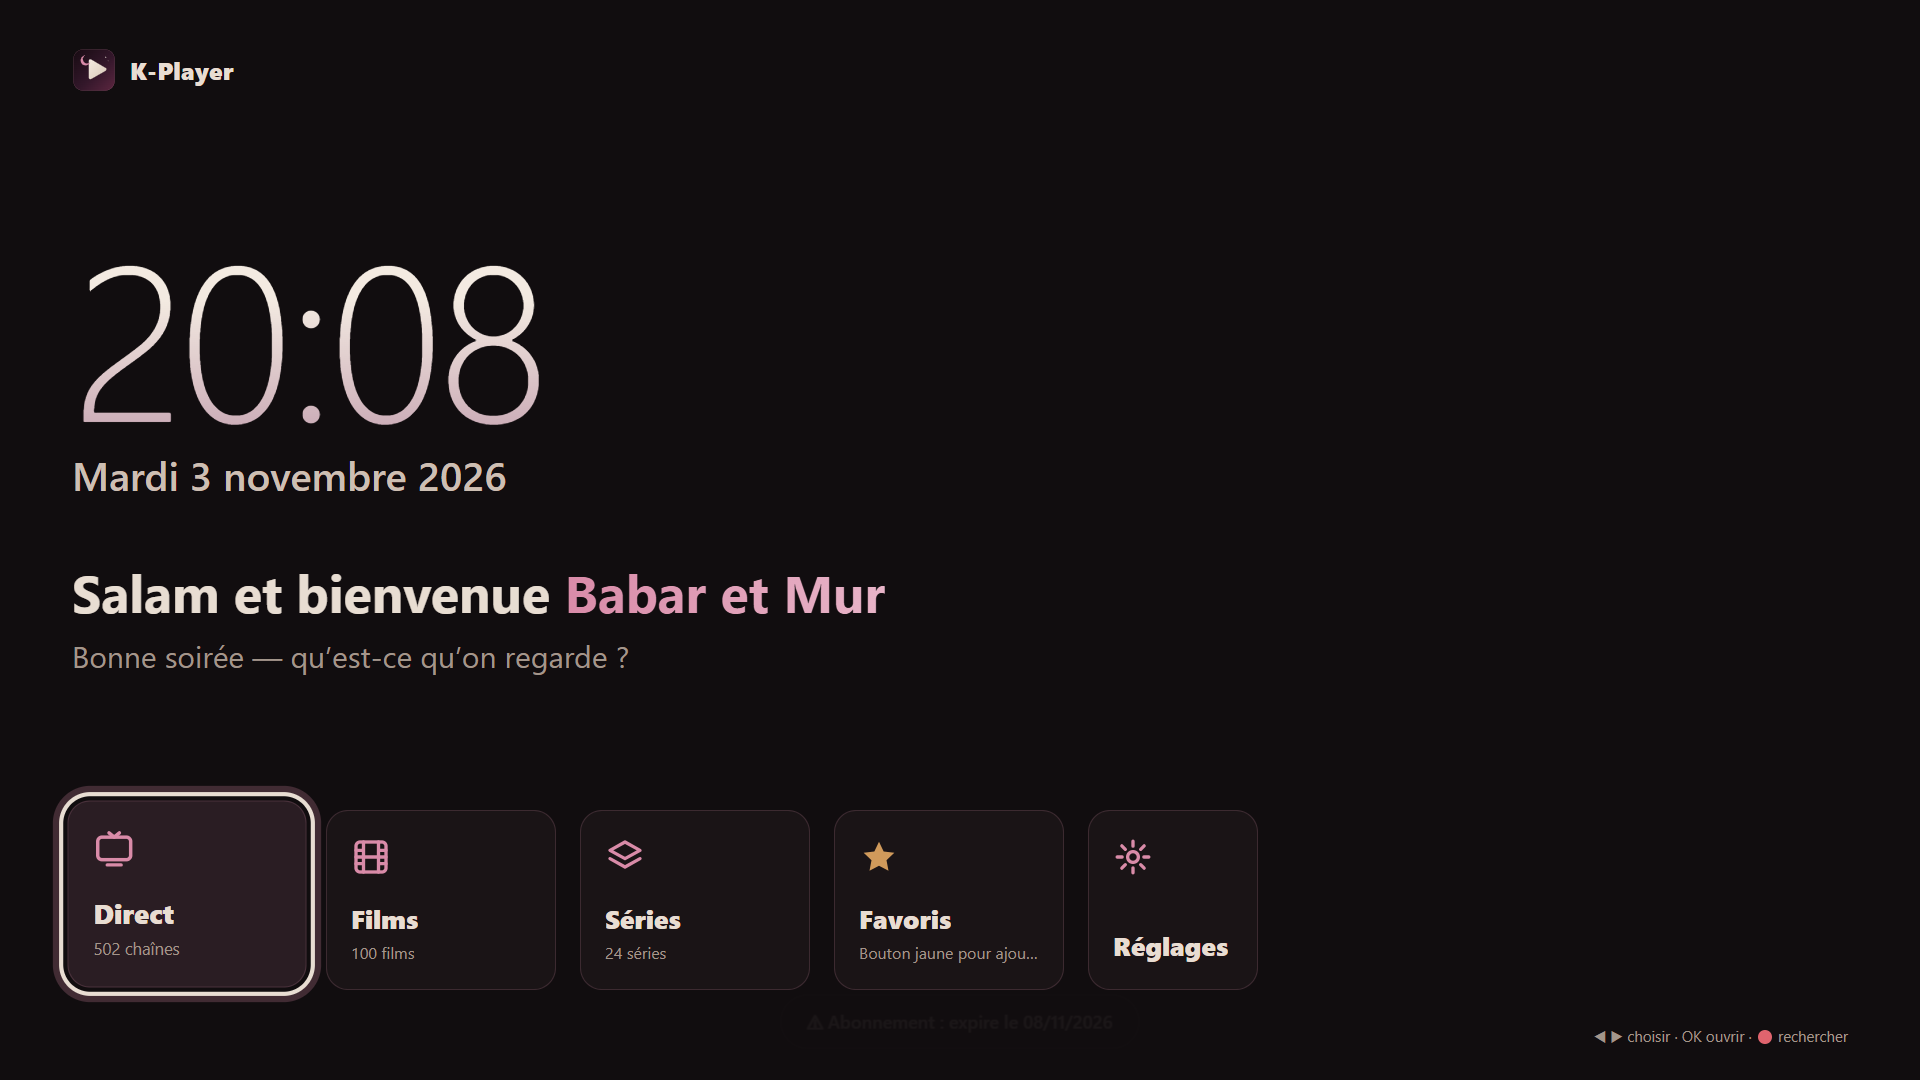
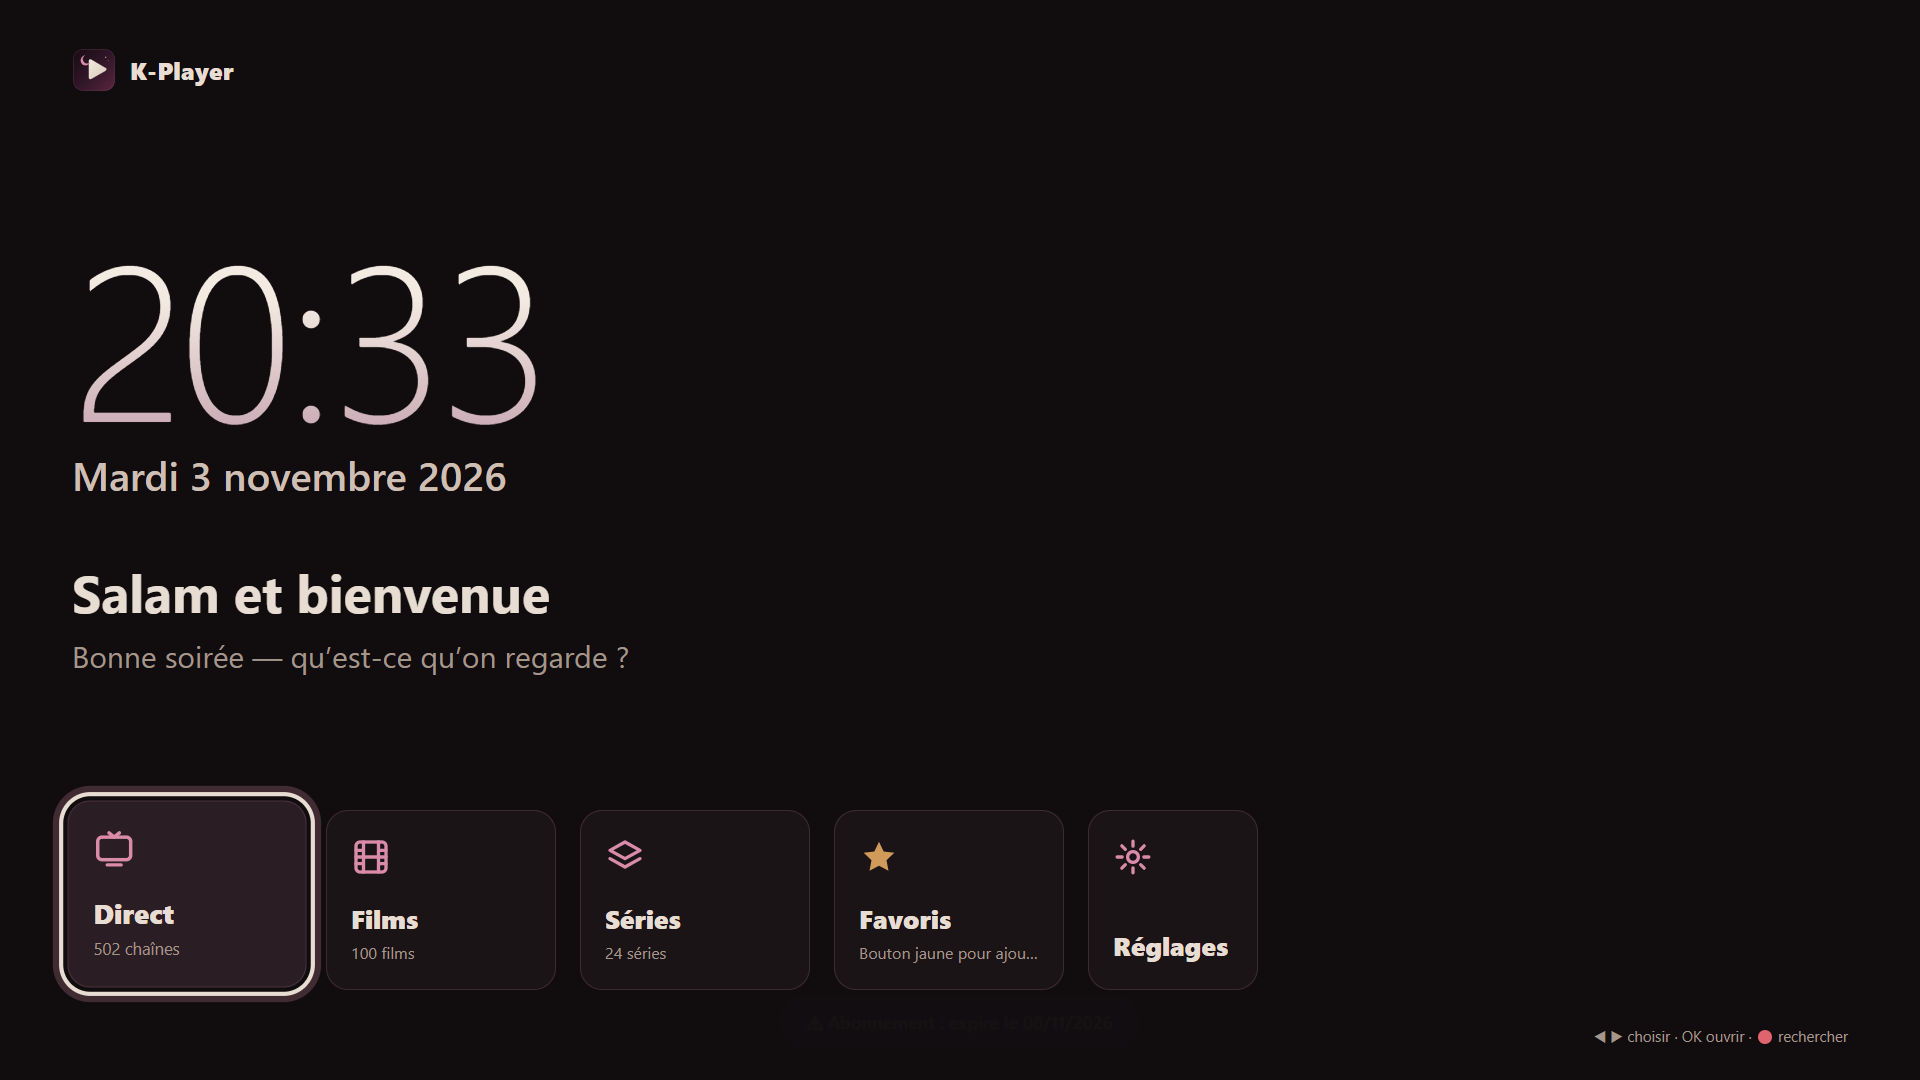
README : version Android TV / Google TV, accueil mis à jour

Changed region(s): [[0.1562, 0.2444, 0.2812, 0.3972], [0.2812, 0.5194, 0.4688, 0.5806]]

diff --git a/README.md b/README.md
@@ -5,12 +5,16 @@
 <h1 align="center">K-Player</h1>
 
 <p align="center">
-  Lecteur IPTV (Xtream Codes) pour TV <b>LG webOS</b>, en thème « Nuit » et pensé pour la télécommande.
+  Lecteur IPTV (Xtream Codes) pour TV <b>LG webOS</b> et <b>Android TV / Google TV</b>, en thème « Nuit » et pensé pour la télécommande.
 </p>
 
 <p align="center">
   <a href="https://github.com/Khenissi-Mohamed/Kplayer/releases/latest/download/K-Player.ipk">
-    <img src="https://img.shields.io/badge/T%C3%A9l%C3%A9charger-K--Player.ipk-D98BA8?style=for-the-badge&labelColor=33172A" alt="Télécharger K-Player" />
+    <img src="https://img.shields.io/badge/LG%20webOS-K--Player.ipk-D98BA8?style=for-the-badge&labelColor=33172A" alt="Télécharger pour LG webOS" />
+  </a>
+  &nbsp;
+  <a href="https://github.com/Khenissi-Mohamed/Kplayer/releases/latest/download/K-Player.apk">
+    <img src="https://img.shields.io/badge/Android%20TV-K--Player.apk-D98BA8?style=for-the-badge&labelColor=33172A" alt="Télécharger pour Android TV" />
   </a>
 </p>
 
@@ -20,11 +24,14 @@
 
 ## ⬇ Télécharger
 
-👉 **[K-Player.ipk (dernière version)](https://github.com/Khenissi-Mohamed/Kplayer/releases/latest/download/K-Player.ipk)**
+| TV | Fichier |
+|---|---|
+| 📺 **LG webOS** | 👉 **[K-Player.ipk](https://github.com/Khenissi-Mohamed/Kplayer/releases/latest/download/K-Player.ipk)** |
+| 🤖 **Android TV / Google TV** (Chromecast, Shield, Fire TV, box Android…) | 👉 **[K-Player.apk](https://github.com/Khenissi-Mohamed/Kplayer/releases/latest/download/K-Player.apk)** |
 
 Toutes les versions sont sur la page [Releases](https://github.com/Khenissi-Mohamed/Kplayer/releases).
 
-## 📺 Installer sur la TV
+## 📺 Installer sur une TV LG (webOS)
 
 1. Sur la TV, active le **mode développeur** : installe l'app *Developer Mode* depuis le LG Content Store et connecte-toi avec un compte LG développeur (gratuit).
 2. Sur le PC, installe **[webOS Dev Manager](https://github.com/webosbrew/dev-manager-desktop/releases)** et ajoute ta TV.
@@ -32,6 +39,15 @@ Toutes les versions sont sur la page [Releases](https://github.com/Khenissi-Moha
 4. Lance **K-Player** depuis le menu de la TV.
 
 > Le mode développeur doit être renouvelé régulièrement depuis l'app *Developer Mode*, sinon les apps installées sont désactivées.
+
+## 🤖 Installer sur Android TV / Google TV
+
+1. Sur la TV, installe l'app **Downloader** (by AFTVnews) depuis le Play Store.
+2. Ouvre Downloader et tape l'adresse : `https://github.com/Khenissi-Mohamed/Kplayer/releases/latest/download/K-Player.apk`
+3. Autorise l'installation d'apps inconnues pour Downloader quand la TV le demande, puis installe.
+4. K-Player apparaît dans la liste des apps.
+
+> Bonus Android : dans les **Options** (bouton vert ou Menu), « Ouvrir avec une autre app » lance la vidéo dans **VLC**, **MX Player** ou **Just Player** s'ils sont installés.
 
 ## 📱 Se connecter avec son téléphone
 
@@ -66,7 +82,7 @@ Les identifiants sont chiffrés sur le téléphone, et la clé n'existe que dans
 | CH+ / CH− | Chaîne suivante / précédente |
 | 0-9 | Aller à une chaîne par son numéro |
 | 🔴 Rouge | Rechercher |
-| 🟢 Vert | Options de lecture |
+| 🟢 Vert (ou Menu sur Android) | Options de lecture |
 | 🟡 Jaune | Ajouter ou retirer des favoris |
 | 🔵 Bleu | Chaîne précédente (direct) / épisode suivant (séries) |
 | Retour | Revenir en arrière |
